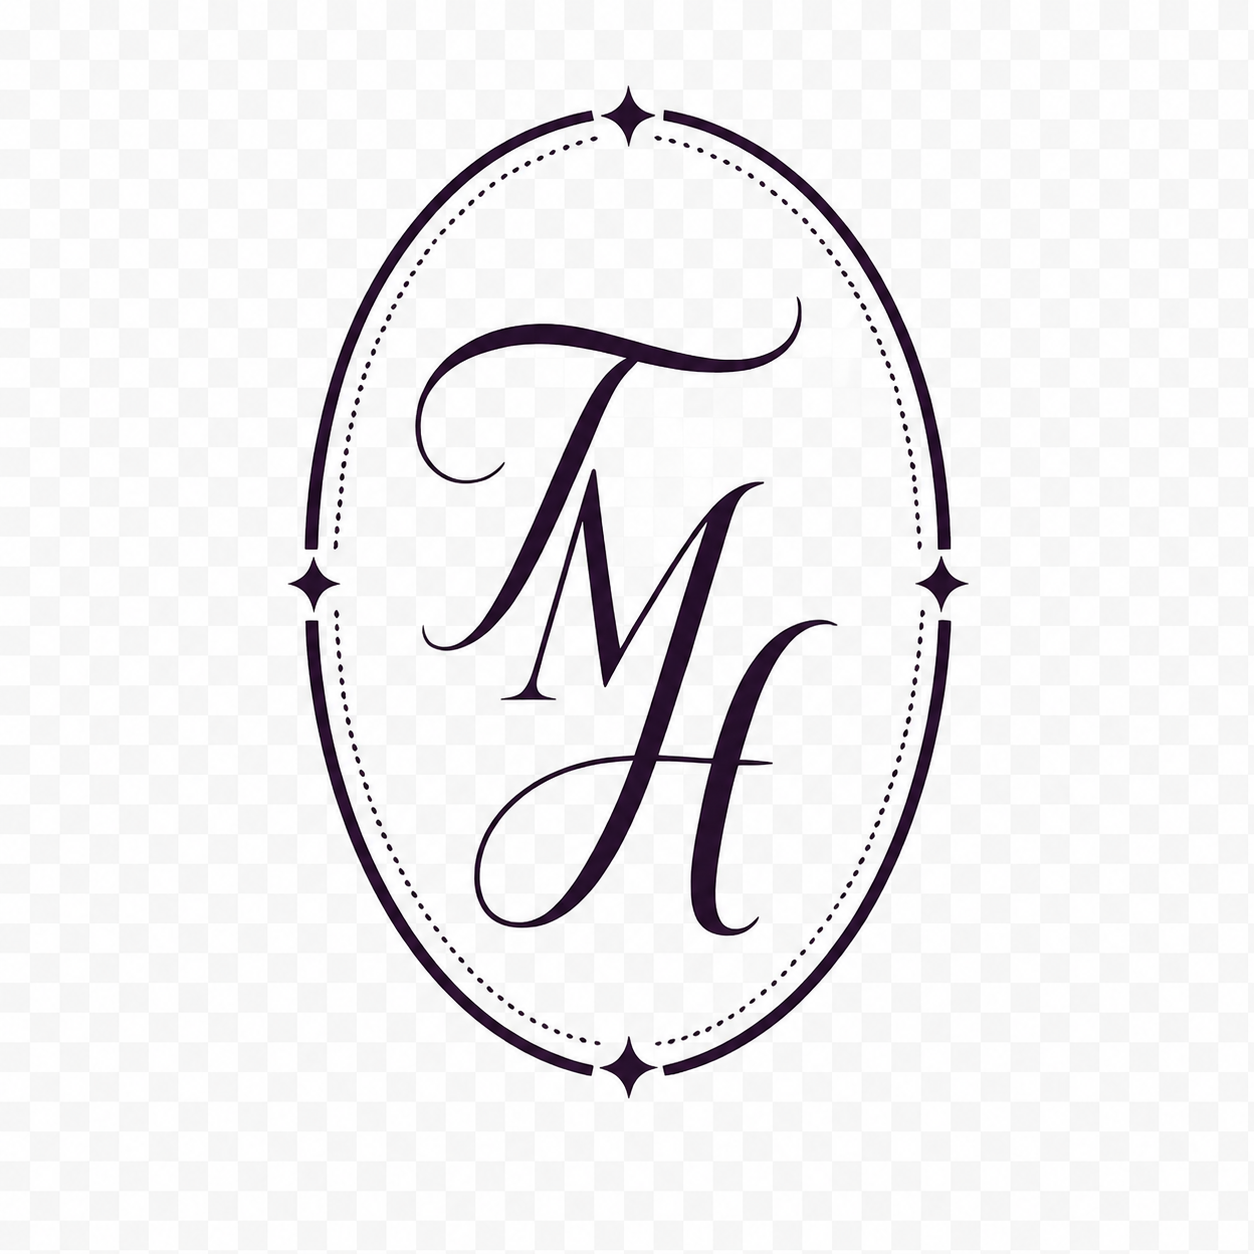
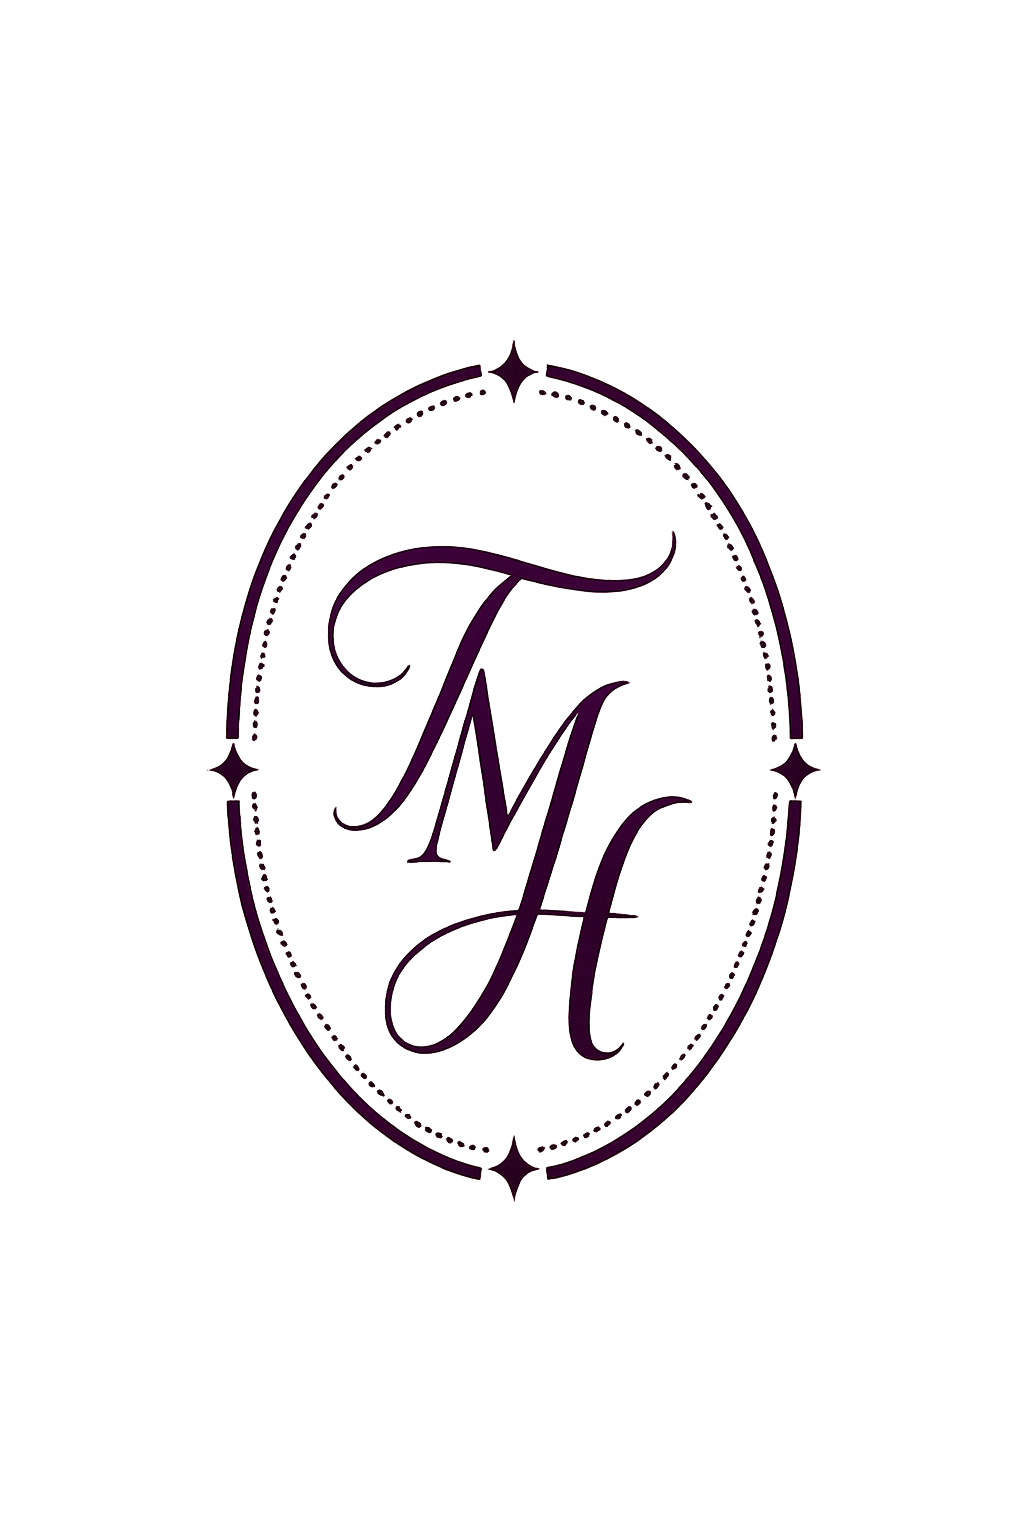
feat: header horizontal lockup (crest + divider + name) matching brandbook

Changed region(s): [[0.2188, 0.0622, 0.8125, 0.8708]]

diff --git a/components/Header.tsx b/components/Header.tsx
@@ -5,12 +5,23 @@ export function Header() {
   return (
     <header className="border-b" style={{ borderColor: 'var(--hairline)' }}>
       <div className="max-w-6xl mx-auto px-5 py-4 flex items-center justify-between gap-6">
-        <Link href="/" className="flex items-center gap-3 leading-none">
+        <Link href="/" className="flex items-center gap-4 leading-none">
           {/* eslint-disable-next-line @next/next/no-img-element */}
-          <img src="/logo.png" alt="The Modesty House crest" className="h-11 w-auto" />
-          <span>
-            <span className="wordmark block text-base md:text-lg">The Modesty House</span>
-            <span className="eyebrow block mt-1">The Modest Fashion Directory</span>
+          <img src="/logo.png" alt="The Modest House crest" className="h-14 w-auto" />
+          <span aria-hidden className="block w-px h-9" style={{ background: 'var(--hairline)' }} />
+          <span
+            className="uppercase"
+            style={{
+              fontFamily: 'var(--font-label), serif',
+              color: 'var(--aubergine)',
+              letterSpacing: '0.24em',
+              lineHeight: 1.3,
+              fontSize: '15px',
+            }}
+          >
+            The&nbsp;Modest
+            <br />
+            House
           </span>
         </Link>
         <nav className="hidden md:flex items-center gap-6">
